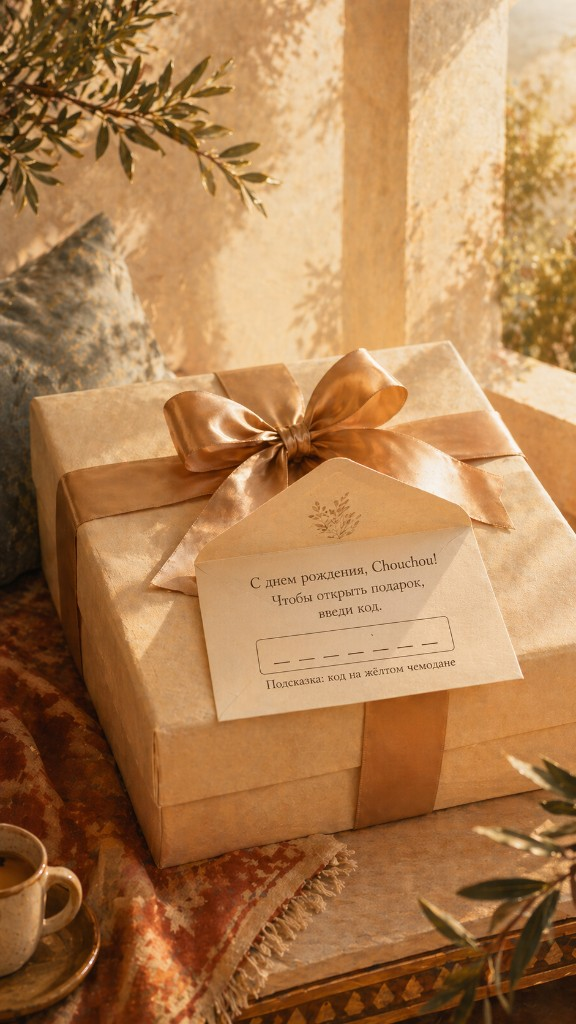
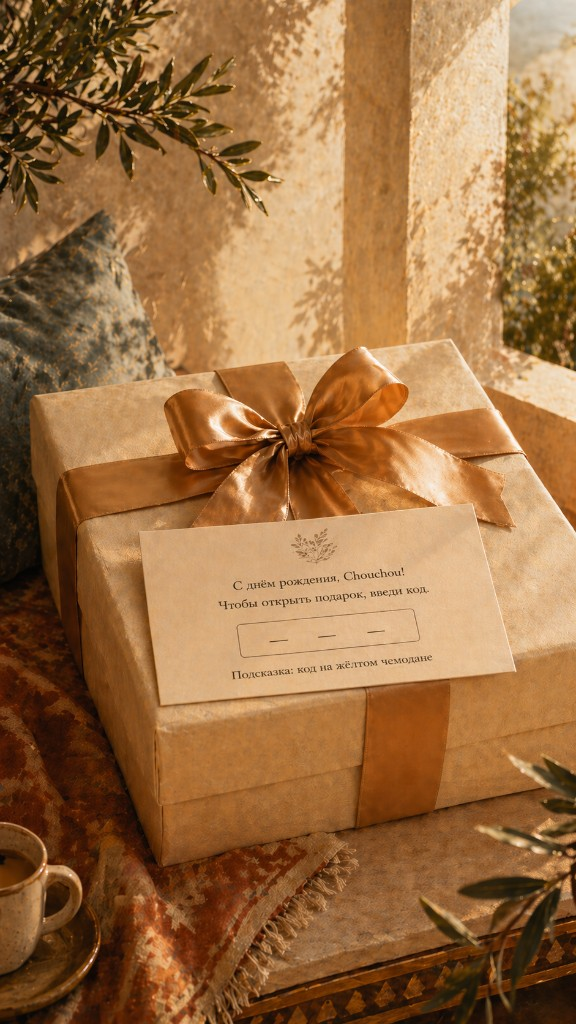
Update code unlock intro layout and background

diff --git a/src/components/code-unlock-screen.tsx b/src/components/code-unlock-screen.tsx
@@ -29,68 +29,58 @@ export function CodeUnlockScreen({ code, onUnlocked }: CodeUnlockScreenProps) {
   }, [code, onUnlocked, value]);
 
   return (
-    <main className="intro-root relative h-[100svh] w-full overflow-hidden bg-[color:var(--color-app-bg)]">
-      <div
+    <main className="gift-screen">
+      {/* eslint-disable-next-line @next/next/no-img-element */}
+      <img
+        className="gift-image"
+        src="/intro-code.png"
+        alt=""
         aria-hidden="true"
-        className="pointer-events-none fixed inset-0 z-[5] h-[100vh] min-h-[100svh] w-screen"
-      >
-        <div className="h-full w-full bg-[image:url('/intro-code.png')] bg-cover bg-center bg-no-repeat opacity-100" />
-        <div className="absolute inset-0 bg-[radial-gradient(110%_88%_at_52%_48%,hsl(0_0%_0%_/0.10)_0%,transparent_62%)] opacity-70" />
-        <div className="absolute inset-0 bg-[linear-gradient(180deg,transparent_0%,hsl(0_0%_0%_/0.22)_100%)] opacity-60" />
-      </div>
+        decoding="async"
+        loading="eager"
+      />
 
-      <div className="relative z-20 mx-auto flex h-full w-full max-w-[430px] flex-col justify-end px-6 pb-[calc(32px_+_env(safe-area-inset-bottom))] pt-10">
-        <div className="intro-card rounded-[22px] border border-black/10 bg-white/42 p-5 backdrop-blur-xl">
-          <div className="font-display text-[1.22rem] font-semibold leading-[1.1] tracking-[-0.02em] text-black/82">
-            С днём рождения, Chouchou!
-          </div>
-          <div className="mt-2 text-[0.98rem] leading-[1.45] tracking-[-0.01em] text-black/72">
-            Чтобы открыть подарок, введи код.
-          </div>
-          <div className="mt-2 text-[0.92rem] leading-[1.45] tracking-[-0.01em] text-black/58">
-            Подсказка: код на жёлтом чемодане
-          </div>
+      <div className="code-input-layer">
+        <label className="sr-only" htmlFor="gift-code">
+          Код
+        </label>
 
-          <div className="mt-4">
-            <label className="sr-only" htmlFor="gift-code">
-              Код
-            </label>
-            <div className="relative">
-              <input
-                id="gift-code"
-                ref={inputRef}
-                type="password"
-                inputMode="numeric"
-                pattern="[0-9]*"
-                maxLength={3}
-                autoComplete="one-time-code"
-                value={value}
-                onChange={(e) => {
-                  const next = e.target.value.replace(/\D/g, "").slice(0, 3);
-                  setValue(next);
-                  setError(null);
-                }}
-                className="w-full rounded-[18px] border border-black/10 bg-white/55 px-4 py-3 text-center text-[1.1rem] tracking-[0.28em] text-transparent caret-black/40 shadow-[0_10px_26px_rgba(0,0,0,0.06)] outline-none ring-1 ring-black/5 backdrop-blur-md focus:border-black/15 focus:bg-white/70 focus:ring-black/10"
-                aria-invalid={Boolean(error)}
-              />
+        <div className="relative h-full w-full">
+          <input
+            id="gift-code"
+            ref={inputRef}
+            type="password"
+            inputMode="numeric"
+            pattern="[0-9]*"
+            maxLength={3}
+            autoComplete="one-time-code"
+            value={value}
+            onChange={(e) => {
+              const next = e.target.value.replace(/\D/g, "").slice(0, 3);
+              setValue(next);
+              setError(null);
+            }}
+            className="h-full w-full rounded-[10px] border border-transparent bg-transparent text-center text-[0.01px] text-transparent caret-black/40 outline-none"
+            aria-invalid={Boolean(error)}
+          />
 
-              {/* custom dots overlay (so digits never show) */}
-              <div
-                aria-hidden="true"
-                className="pointer-events-none absolute inset-0 flex items-center justify-center text-[1.25rem] tracking-[0.55em] text-black/70"
-              >
-                {masked}
-              </div>
-            </div>
-
-            {error ? (
-              <div className="mt-3 rounded-[14px] border border-black/10 bg-white/40 px-3 py-2 text-[0.92rem] leading-[1.35] tracking-[-0.01em] text-black/62">
-                {error}
-              </div>
-            ) : null}
+          {/* dots overlay (digits never shown) */}
+          <div
+            aria-hidden="true"
+            className="pointer-events-none absolute inset-0 flex items-center justify-center text-[clamp(14px,1.9svh,18px)] tracking-[0.42em] text-black/70"
+          >
+            {masked}
           </div>
         </div>
       </div>
+
+      {error ? (
+        <div className="pointer-events-none absolute inset-x-0 bottom-[max(18px,env(safe-area-inset-bottom))] z-20 mx-auto w-full max-w-[430px] px-6">
+          <div className="mx-auto w-fit rounded-full border border-black/10 bg-white/30 px-4 py-2 text-[0.92rem] leading-[1.35] tracking-[-0.01em] text-black/65 backdrop-blur-md">
+            {error}
+          </div>
+        </div>
+      ) : null}
     </main>
   );
 }

diff --git a/src/app/globals.css b/src/app/globals.css
@@ -466,6 +466,30 @@ html[data-theme="light"] .stories-page {
   }
 }
 
+/* Gift intro: code unlock layout (iPhone 16 baseline) */
+.gift-screen {
+  width: 100vw;
+  height: 100svh;
+  position: relative;
+  overflow: hidden;
+  background: var(--color-app-bg);
+}
+
+.gift-image {
+  width: 100%;
+  height: 100%;
+  object-fit: cover;
+}
+
+.code-input-layer {
+  position: absolute;
+  left: 39%;
+  top: 60.5%;
+  width: 22%;
+  height: 4%;
+  z-index: 10;
+}
+
 @keyframes pulse-soft {
   0%,
   100% {
